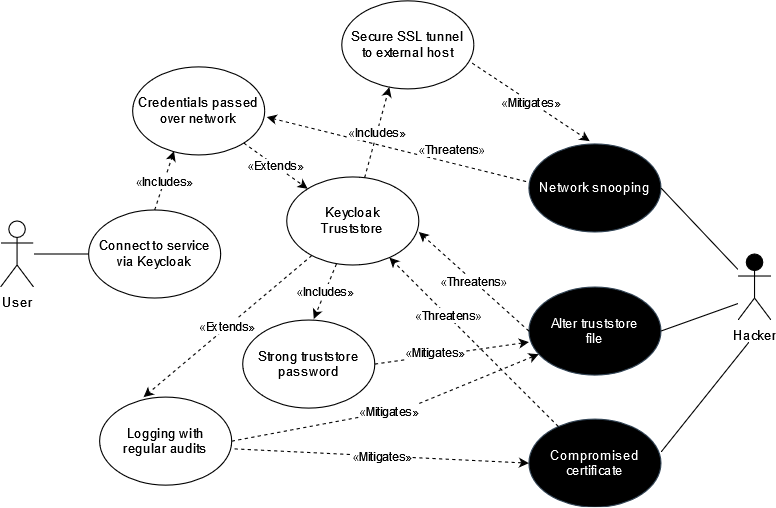
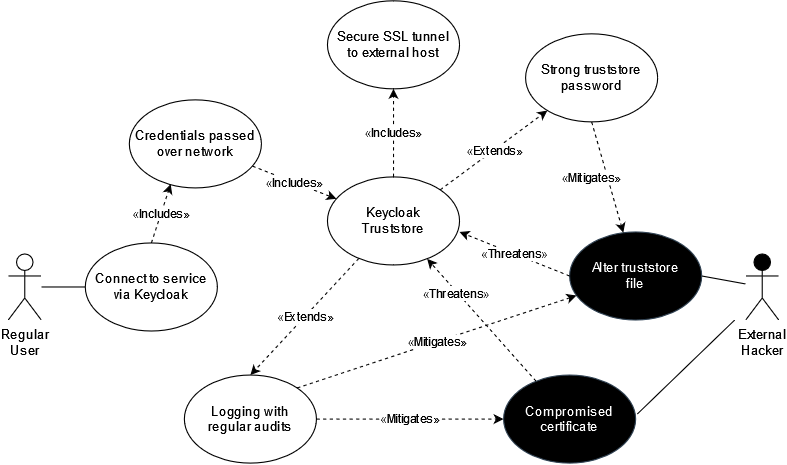
Truststore revision 2

diff --git a/SecurityRequirements.md b/SecurityRequirements.md
@@ -13,14 +13,13 @@ The truststore is a foundational part of the Keycloak mechanism for remote conne
 
 #### Use Case
 
-In this case, a user will connect to an external server using Keykloak.  Since credentials will be passed over the network or internet, packet interception is a risk to the user's credentials.  The user expects to connect to the external server without issue and without risk of credential theft.  The user believes proper care has been taken to configure the system and underlying security in order to connect to the expected endpoint.
+In this case, a user will connect to an external server using Keycloak.  The user expects to connect to the external server without issue and without risk of credential theft.  The user believes proper care has been taken to configure the system and underlying security in order to connect to the expected endpoint.  Server configuration should be for maximum security to prevent any security breach from external entities.
 
 
 
-##### Misuse Case
+#### Misuse Case
 
-In reality, a hacker may attempt to monitor network traffic in order to capture credentials in transit.  A properly configured truststore will establish an encrypted SSL tunnel between endpoints which mitigates any potential network inspection by bad actors.  Keycloak will only connect to endpoints which match private keys stored locally in the trust store which mitigates the theat of a man-in-the-middle attack.
-Alternatively, a hacker may gain access to the truststore if the Keycloak server is breached.  Using a strong truststore password will eliminate the possibly of the bad actor altering the truststore file.  Similarly, a security certificate must be swiftly revoked from the truststore should a remote server's certificate become compromised.  Regular logging and auditing will elimiate these potential security risks.
+In reality, a hacker may attempt to infiltrate the Keycloak server.  The hacker's goals may not be immediately apparent.  For example, curiousity may be a motivating factor which leads to an opportunitstic security breach.  Should the Keycloak server be attacked, care must be taken to maintain the integrity of the truststore.  Using a strong truststore password will eliminate the possibly of the bad actor altering the truststore file.  Similarly, a security certificate must be swiftly revoked from the truststore should a remote server's certificate become compromised.  Regular logging and auditing will elimiate these potential security risks.
 
 
 
